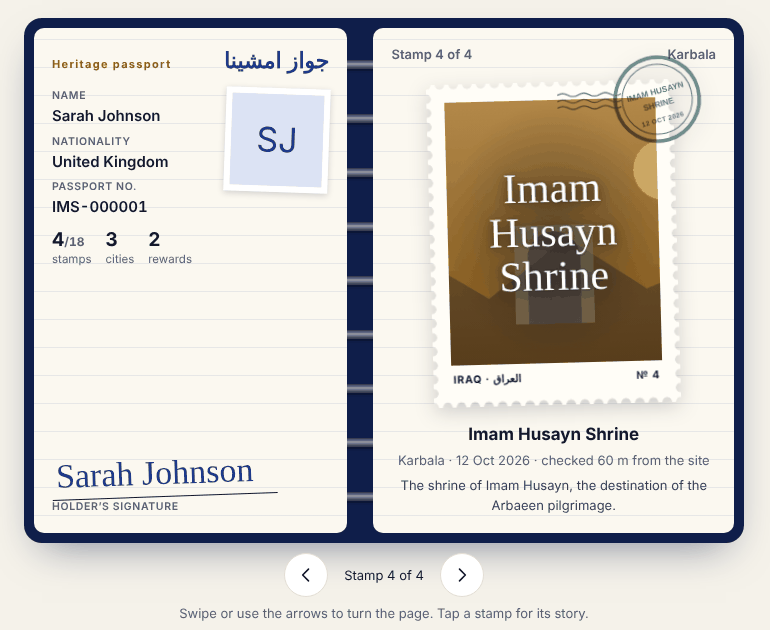
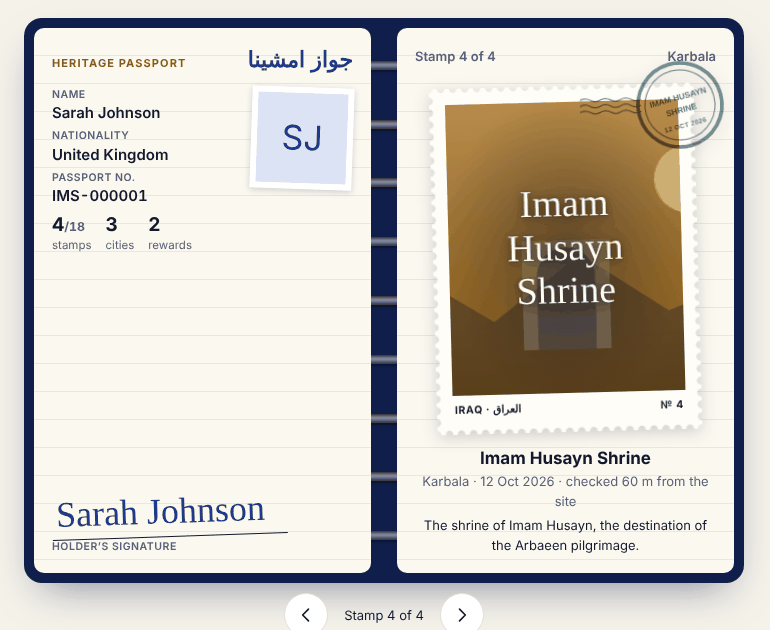
Passport spread on every screen, calligraphy lettering on stamps
- The notebook now opens side by side on phones too; sizes scale with
  the book's width (container units), with the photo above the details
  on narrow books. Pages turn sideways, mirrored in Arabic.
- Stamp names use Symphonie Calligraphy (Aref Ruqaa for Arabic), sized
  to fit, with bracketed parts dropped; the holder's signature too.
- The font file is not committed: its demo licence is personal use only
  and forbids publishing it. frontend/public/fonts/README.md explains how
  to add it locally or after buying a commercial licence; until then
  Great Vibes is used.

Claude-Session: https://claude.ai/code/session_01EBqURZZ3YTqX1zdJGkWcjZ

diff --git a/frontend/src/index.css b/frontend/src/index.css
@@ -516,146 +516,125 @@ input[type='range'] { accent-color: var(--lapis); width: 100%; }
 .story-lock { width: 40px; height: 40px; flex-shrink: 0; border-radius: 20px; background: var(--paper-2); display: flex; align-items: center; justify-content: center; color: var(--ochre); }
 
 /* ===================== Passport notebook =====================
-   A lapis cover behind cream ruled pages. The holder's page is fixed; stamp pages turn.
-   Phones: pages stacked, bound across the middle, flipping upward (rotateX about the top edge).
-   ≥760px: an open spread bound down the middle, turning sideways (rotateY), mirrored in Arabic. */
-.book-wrap { display: flex; flex-direction: column; gap: 10px; }
+   An open spread at every screen size: the holder's page on one side (fixed), stamp pages on the
+   other, turning about the spine (from the right in Arabic). Sizes follow the book's own width
+   (cqi = 1% of .book-wrap), so a 390px phone and a desktop show the same spread, just scaled. */
+@font-face {
+  /* The stamp lettering. The demo licence forbids publishing the file, so it isn't in the repo:
+     see frontend/public/fonts/README.md. Without it, Great Vibes is used. */
+  font-family: 'Symphonie';
+  src: url('/fonts/SymphonieCalligraphyDEMO-Regular.otf') format('opentype');
+  font-display: swap;
+}
+.book-wrap { display: flex; flex-direction: column; gap: 10px; container-type: inline-size; }
+@media (max-width: 480px) { .book-wrap { margin-inline: -8px; } } /* phones: give the spread a little more width */
 .book {
-  --paper: #FBF8F0; --rule: rgba(29, 58, 140, 0.09); --margin: rgba(178, 64, 50, 0.22);
-  display: grid; grid-template-rows: auto 26px auto; padding: 10px; border-radius: 18px;
-  background: var(--lapis-deep); box-shadow: 0 18px 40px -18px rgba(15, 30, 74, 0.55);
-  outline: none;
+  --paper: #FBF8F0; --rule: rgba(29, 58, 140, 0.09); --line-h: clamp(15px, 4.4cqi, 28px);
+  display: grid; grid-template-columns: minmax(0, 1fr) clamp(14px, 4.4cqi, 26px) minmax(0, 1fr);
+  padding: clamp(5px, 1.6cqi, 10px); border-radius: clamp(10px, 3cqi, 18px);
+  background: var(--lapis-deep); box-shadow: 0 18px 40px -18px rgba(15, 30, 74, 0.55); outline: none;
 }
 .book:focus-visible { box-shadow: 0 0 0 3px var(--gold), 0 18px 40px -18px rgba(15, 30, 74, 0.55); }
 .leaf-page {
-  position: relative; display: flex; flex-direction: column; gap: 12px; padding: 16px 18px 18px;
-  background-color: var(--paper);
-  background-image: linear-gradient(transparent 27px, var(--rule) 27px, var(--rule) 28px);
-  background-size: 100% 28px; background-position: 0 12px;
-  border-radius: 10px; color: var(--ink); min-width: 0;
+  position: relative; display: flex; flex-direction: column; gap: clamp(5px, 1.7cqi, 12px);
+  padding: clamp(8px, 2.6cqi, 18px); background-color: var(--paper);
+  background-image: linear-gradient(transparent calc(100% - 1px), var(--rule) calc(100% - 1px));
+  background-size: 100% var(--line-h); border-radius: clamp(6px, 1.6cqi, 10px); color: var(--ink); min-width: 0;
 }
 .leaf-page.blank { height: 100%; }
 
-/* Spiral: rings crossing the binding, like the sketch's notepad. */
-.book-spine { display: flex; justify-content: space-around; align-items: center; padding-inline: 6px; }
-.ring { width: 9px; height: 34px; border-radius: 6px; background: linear-gradient(90deg, #2A2F45, #8D93A8 45%, #2A2F45); box-shadow: 0 2px 3px rgba(0,0,0,.35); }
+/* Spiral rings down the spine */
+.book-spine { display: flex; flex-direction: column; justify-content: space-around; align-items: center; padding: 8px 0; }
+.ring { width: clamp(18px, 5.4cqi, 34px); height: clamp(5px, 1.4cqi, 9px); border-radius: 6px; background: linear-gradient(180deg, #2A2F45, #8D93A8 45%, #2A2F45); box-shadow: 0 2px 3px rgba(0, 0, 0, 0.35); }
 
 /* Holder's page */
-.identity { gap: 10px; }
-.id-head { display: flex; justify-content: space-between; align-items: baseline; gap: 10px; }
-.id-eyebrow { font-size: 11px; font-weight: 700; letter-spacing: 0.12em; color: var(--ochre); }
+.id-head { display: flex; justify-content: space-between; align-items: baseline; gap: 6px; flex-wrap: wrap; }
+.id-eyebrow { font-size: clamp(7px, 1.8cqi, 11px); font-weight: 700; letter-spacing: 0.1em; color: var(--ochre); text-transform: uppercase; }
 [dir='rtl'] .id-eyebrow { letter-spacing: 0; }
-.id-title { font-family: 'Reem Kufi', 'IBM Plex Sans Arabic', sans-serif; font-weight: 700; font-size: 22px; color: var(--lapis); }
-.id-body { display: grid; grid-template-columns: minmax(0, 1fr) 104px; gap: 14px; align-items: start; }
-.id-fields { margin: 0; display: flex; flex-direction: column; gap: 6px; }
-.id-fields dt { font-size: 10.5px; font-weight: 600; letter-spacing: 0.06em; text-transform: uppercase; color: var(--muted); }
+.id-title { font-family: 'Reem Kufi', 'IBM Plex Sans Arabic', sans-serif; font-weight: 700; font-size: clamp(12px, 3.6cqi, 22px); color: var(--lapis); line-height: 1.3; }
+.id-body { display: grid; grid-template-columns: minmax(0, 1fr) 34%; gap: clamp(6px, 2cqi, 14px); align-items: start; }
+.id-fields { margin: 0; display: flex; flex-direction: column; gap: clamp(2px, 0.9cqi, 6px); }
+.id-fields dt { font-size: clamp(6.5px, 1.7cqi, 10.5px); font-weight: 600; letter-spacing: 0.05em; text-transform: uppercase; color: var(--muted); }
 [dir='rtl'] .id-fields dt { letter-spacing: 0; }
-.id-fields dd { margin: 0; font-weight: 600; font-size: 15px; overflow-wrap: anywhere; }
-.id-stats { display: flex; gap: 14px; margin-top: 4px; }
-.id-stats span { display: flex; flex-direction: column; font-size: 11.5px; color: var(--muted); }
-.id-stats b { font-size: 19px; color: var(--ink); line-height: 1.2; }
-.id-stats small { font-size: 12px; color: var(--muted); }
-.id-photo { aspect-ratio: 1; border: 6px solid #fff; box-shadow: 0 2px 6px rgba(20, 24, 43, 0.18); background: var(--lapis-soft); display: flex; align-items: center; justify-content: center; transform: rotate(2deg); overflow: hidden; }
+.id-fields dd { margin: 0; font-weight: 600; font-size: clamp(9.5px, 2.7cqi, 15px); overflow-wrap: anywhere; line-height: 1.3; }
+.id-stats { display: flex; gap: clamp(6px, 2.2cqi, 14px); margin-top: 2px; flex-wrap: wrap; }
+.id-stats span { display: flex; flex-direction: column; font-size: clamp(7px, 1.9cqi, 11.5px); color: var(--muted); }
+.id-stats b { font-size: clamp(12px, 3.3cqi, 19px); color: var(--ink); line-height: 1.2; }
+.id-stats small { font-size: 0.65em; color: var(--muted); }
+.id-photo { aspect-ratio: 1; border: clamp(3px, 1cqi, 6px) solid #fff; box-shadow: 0 2px 6px rgba(20, 24, 43, 0.18); background: var(--lapis-soft); display: flex; align-items: center; justify-content: center; transform: rotate(2deg); overflow: hidden; }
 .id-photo img { width: 100%; height: 100%; object-fit: cover; }
-.id-photo span { font-size: 34px; color: var(--lapis); }
+.id-photo span { font-size: clamp(14px, 5cqi, 34px); color: var(--lapis); }
+.id-signature { display: flex; margin-top: auto; flex-direction: column; align-items: flex-start; gap: 2px; padding-top: 8px; }
+.id-sign { font-family: 'Symphonie', 'Great Vibes', 'Aref Ruqaa', cursive; font-size: clamp(17px, 5.4cqi, 36px); color: var(--lapis); line-height: 1.25; border-bottom: 1.5px solid var(--ink); padding: 0 clamp(8px, 3cqi, 24px) 2px 4px; transform: rotate(-2deg); max-width: 100%; overflow: hidden; white-space: nowrap; }
+.id-sign-label { font-size: clamp(6.5px, 1.7cqi, 10.5px); font-weight: 600; letter-spacing: 0.05em; text-transform: uppercase; color: var(--muted); }
+[dir='rtl'] .id-sign-label { letter-spacing: 0; }
+/* Narrow books: photo above the details, as in a printed passport. */
+@container (max-width: 560px) {
+  .id-body { grid-template-columns: 1fr; }
+  .id-photo { width: 52%; order: -1; }
+}
 
 /* Turning pages: stacked in one grid cell so the stack is as tall as the tallest page. */
-.leaf-stack { display: grid; perspective: 1800px; touch-action: pan-y; }
+.leaf-stack { display: grid; perspective: 1800px; touch-action: pan-y; min-width: 0; }
 .leaf { grid-area: 1 / 1; display: grid; min-width: 0; }
 .leaf > .leaf-page { height: 100%; }
-.leaf.turning { position: relative; z-index: 3; transform-style: preserve-3d; transform-origin: top center; animation: 720ms cubic-bezier(0.45, 0.05, 0.25, 1) both; }
-.leaf.turning.turn-next { animation-name: flip-up; }
-.leaf.turning.turn-prev { animation-name: flip-down; }
-.face { grid-area: 1 / 1; display: grid; backface-visibility: hidden; -webkit-backface-visibility: hidden; min-width: 0; }
+.leaf.turning { position: relative; z-index: 3; transform-style: preserve-3d; transform-origin: left center; animation: 720ms cubic-bezier(0.45, 0.05, 0.25, 1) both; }
+[dir='rtl'] .leaf.turning { transform-origin: right center; }
+.leaf.turning.turn-next { animation-name: turn-left; }
+.leaf.turning.turn-prev { animation-name: turn-right; }
+[dir='rtl'] .leaf.turning.turn-next { animation-name: turn-right-rtl; }
+[dir='rtl'] .leaf.turning.turn-prev { animation-name: turn-left-rtl; }
+.face { position: relative; grid-area: 1 / 1; display: grid; backface-visibility: hidden; -webkit-backface-visibility: hidden; min-width: 0; }
 .face > .leaf-page { height: 100%; }
-.face.back { transform: rotateX(180deg); }
-.face { position: relative; }
-.face.front::after, .face.back::after { content: ''; position: absolute; inset: 0; border-radius: 10px; background: linear-gradient(to bottom, rgba(15, 30, 74, 0.28), transparent 70%); opacity: 0; animation: page-shade 720ms cubic-bezier(0.45, 0.05, 0.25, 1) both; pointer-events: none; }
+.face.back { transform: rotateY(180deg); }
+.face.front::after, .face.back::after { content: ''; position: absolute; inset: 0; border-radius: inherit; background: linear-gradient(to right, rgba(15, 30, 74, 0.28), transparent 70%); opacity: 0; animation: page-shade 720ms cubic-bezier(0.45, 0.05, 0.25, 1) both; pointer-events: none; }
+[dir='rtl'] .face.front::after, [dir='rtl'] .face.back::after { background: linear-gradient(to left, rgba(15, 30, 74, 0.28), transparent 70%); }
 /* Opacity lives on the faces: on the 3D parent it would flatten the page and show its front through the back. */
-@keyframes flip-up { from { transform: rotateX(0); } to { transform: rotateX(178deg); } }
-@keyframes flip-down { from { transform: rotateX(178deg); } to { transform: rotateX(0); } }
 .leaf.turning.turn-next > .face { animation: face-out 720ms linear both; }
 .leaf.turning.turn-prev > .face { animation: face-in 720ms linear both; }
 @keyframes face-out { 0%, 78% { opacity: 1; } 100% { opacity: 0; } }
 @keyframes face-in { 0% { opacity: 0; } 22%, 100% { opacity: 1; } }
 @keyframes page-shade { 0%, 100% { opacity: 0; } 50% { opacity: 1; } }
-
-@media (min-width: 760px) {
-  .book { grid-template-rows: auto; grid-template-columns: minmax(0, 1fr) 26px minmax(0, 1.15fr); }
-  .book-spine { flex-direction: column; padding: 10px 0; }
-  .ring { width: 34px; height: 9px; background: linear-gradient(180deg, #2A2F45, #8D93A8 45%, #2A2F45); }
-  .identity { justify-content: flex-start; }
-  .leaf.turning { transform-origin: left center; }
-  [dir='rtl'] .leaf.turning { transform-origin: right center; }
-  .leaf.turning.turn-next { animation-name: turn-left; }
-  .leaf.turning.turn-prev { animation-name: turn-right; }
-  [dir='rtl'] .leaf.turning.turn-next { animation-name: turn-right-rtl; }
-  [dir='rtl'] .leaf.turning.turn-prev { animation-name: turn-left-rtl; }
-  .face.back { transform: rotateY(180deg); }
-  .face.front::after, .face.back::after { background: linear-gradient(to right, rgba(15, 30, 74, 0.28), transparent 70%); }
-  [dir='rtl'] .face.front::after, [dir='rtl'] .face.back::after { background: linear-gradient(to left, rgba(15, 30, 74, 0.28), transparent 70%); }
-}
 @keyframes turn-left { from { transform: rotateY(0); } to { transform: rotateY(-178deg); } }
 @keyframes turn-right { from { transform: rotateY(-178deg); } to { transform: rotateY(0); } }
 @keyframes turn-right-rtl { from { transform: rotateY(0); } to { transform: rotateY(178deg); } }
 @keyframes turn-left-rtl { from { transform: rotateY(178deg); } to { transform: rotateY(0); } }
-@media (prefers-reduced-motion: reduce) { .leaf.turning { animation-duration: 1ms; } }
+@media (prefers-reduced-motion: reduce) { .leaf.turning, .leaf.turning > .face { animation-duration: 1ms; } }
 
 /* Stamp page */
-.stamp-page { align-items: stretch; }
-.leaf-head { display: flex; justify-content: space-between; color: var(--muted); font-weight: 600; }
-.postage-wrap { position: relative; display: block; align-self: center; width: min(76%, 290px); margin: 6px 0 4px; padding: 0; border: 0; background: none; cursor: pointer; filter: drop-shadow(0 6px 10px rgba(20, 24, 43, 0.2)); transform: rotate(-1.5deg); }
+.leaf-head { display: flex; justify-content: space-between; gap: 6px; color: var(--muted); font-weight: 600; font-size: clamp(7.5px, 2cqi, 13px); }
+.postage-wrap { position: relative; display: block; align-self: center; width: min(88%, 300px); margin: clamp(4px, 1.4cqi, 8px) 0 2px; padding: 0; border: 0; background: none; cursor: pointer; filter: drop-shadow(0 4px 8px rgba(20, 24, 43, 0.2)); transform: rotate(-1.5deg); }
 .postage-wrap:focus-visible { outline: 3px solid var(--lapis); outline-offset: 6px; border-radius: 4px; }
 /* Perforated edge: semicircle bites along all four sides, solid inside (two mask layers, unioned). */
 .postage {
-  display: block; padding: 8px; background: #FFFDF7;
-  -webkit-mask: linear-gradient(#000 0 0) content-box, radial-gradient(circle, #0000 4.4px, #000 5px) -7px -7px / 14px 14px round;
-  mask: linear-gradient(#000 0 0) content-box, radial-gradient(circle, #0000 4.4px, #000 5px) -7px -7px / 14px 14px round;
+  display: block; padding: 6px; background: #FFFDF7;
+  -webkit-mask: linear-gradient(#000 0 0) content-box, radial-gradient(circle, #0000 3.6px, #000 4.2px) -6px -6px / 12px 12px round;
+  mask: linear-gradient(#000 0 0) content-box, radial-gradient(circle, #0000 3.6px, #000 4.2px) -6px -6px / 12px 12px round;
 }
-.postage-photo { position: relative; display: flex; align-items: center; justify-content: center; aspect-ratio: 4 / 5; overflow: hidden; background: var(--ink); color: rgba(255, 255, 255, 0.5); margin: 10px 10px 0; }
+.postage-photo { position: relative; display: flex; align-items: center; justify-content: center; aspect-ratio: 4 / 5; overflow: hidden; background: var(--ink); color: rgba(255, 255, 255, 0.5); margin: clamp(4px, 1.4cqi, 10px) clamp(4px, 1.4cqi, 10px) 0; }
 .postage-photo img { position: absolute; inset: 0; width: 100%; height: 100%; object-fit: cover; }
-.postage-photo::after { content: ''; position: absolute; inset: 0; background: radial-gradient(ellipse at center, rgba(10, 14, 30, 0.45), rgba(10, 14, 30, 0.1) 70%); }
+.postage-photo::after { content: ''; position: absolute; inset: 0; background: radial-gradient(ellipse at center, rgba(10, 14, 30, 0.45), rgba(10, 14, 30, 0.08) 75%); }
+/* The place name across the traveller's own photo, in calligraphy. */
 .postage-name {
-  position: absolute; inset: 0; z-index: 1; display: flex; align-items: center; justify-content: center; padding: 0 12px; text-align: center;
-  font-family: 'Great Vibes', 'Aref Ruqaa', cursive; font-size: clamp(30px, 9vw, 42px); line-height: 1.05; color: #fff;
-  text-shadow: 0 2px 12px rgba(0, 0, 0, 0.6), 0 0 2px rgba(0, 0, 0, 0.4);
+  position: absolute; inset: 0; z-index: 1; display: flex; align-items: center; justify-content: center; padding: 0 6%; text-align: center;
+  font-family: 'Symphonie', 'Great Vibes', cursive; font-weight: 400; font-size: clamp(20px, 7cqi, 46px); line-height: 1.15; color: #FFFDF2;
+  text-shadow: 0 2px 10px rgba(0, 0, 0, 0.55), 0 0 2px rgba(0, 0, 0, 0.35);
 }
-.postage-name:lang(ar) { font-family: 'Aref Ruqaa', 'Reem Kufi', serif; font-weight: 700; font-size: clamp(28px, 8vw, 38px); line-height: 1.4; }
-.postage-foot { display: flex; justify-content: space-between; padding: 7px 12px 10px; font-size: 10.5px; font-weight: 700; letter-spacing: 0.08em; color: var(--ink); }
-.postmark { position: absolute; top: -26px; inset-inline-end: -30px; display: flex; align-items: center; mix-blend-mode: multiply; opacity: 0.85; pointer-events: none; }
-.cancel-lines { width: 64px; height: 22px; margin-inline-end: -10px; opacity: 0.8; }
+.postage-name.l { font-size: clamp(17px, 5.9cqi, 38px); }
+.postage-name.xl { font-size: clamp(14px, 4.7cqi, 31px); }
+.postage-name:lang(ar) { font-family: 'Aref Ruqaa', 'Reem Kufi', serif; font-weight: 700; font-size: clamp(16px, 5.2cqi, 38px); line-height: 1.45; }
+.postage-foot { display: flex; justify-content: space-between; gap: 4px; padding: clamp(4px, 1.1cqi, 7px) clamp(5px, 1.8cqi, 12px) clamp(5px, 1.5cqi, 10px); font-size: clamp(5.5px, 1.5cqi, 10.5px); font-weight: 700; letter-spacing: 0.06em; color: var(--ink); white-space: nowrap; }
+.postmark { position: absolute; top: calc(-1 * clamp(10px, 3.4cqi, 26px)); inset-inline-end: calc(-1 * clamp(14px, 4.4cqi, 32px)); display: flex; align-items: center; mix-blend-mode: multiply; opacity: 0.85; pointer-events: none; }
+.postmark svg:last-child { width: clamp(46px, 13cqi, 92px); height: clamp(46px, 13cqi, 92px); }
+.cancel-lines { width: clamp(28px, 8.5cqi, 64px); height: auto; aspect-ratio: 3; margin-inline-end: -8px; opacity: 0.8; }
 [dir='rtl'] .cancel-lines { transform: scaleX(-1); }
-.stamp-info { display: flex; flex-direction: column; gap: 3px; text-align: center; align-items: center; }
-.stamp-info-name { font-size: 17px; }
-.stamp-info p { margin: 2px 0 0; color: var(--ink-2, var(--ink)); max-width: 40ch; }
+.stamp-info { display: flex; flex-direction: column; gap: 2px; text-align: center; align-items: center; }
+.stamp-info-name { font-size: clamp(10.5px, 2.9cqi, 17px); line-height: 1.3; }
+.stamp-info .muted { font-size: clamp(8px, 2.1cqi, 13px); }
+.stamp-info p { margin: 2px 0 0; font-size: clamp(8px, 2.1cqi, 13px); max-width: 40ch; }
+@container (max-width: 560px) { .stamp-info p { display: none; } }
 .next-page { justify-content: center; }
-.postage-empty { align-self: center; width: min(70%, 260px); aspect-ratio: 4 / 5; border: 2.5px dashed var(--line-3); border-radius: 6px; display: flex; flex-direction: column; align-items: center; justify-content: center; gap: 12px; padding: 18px; text-align: center; color: var(--muted); transform: rotate(-1.5deg); }
+.postage-empty { align-self: center; width: min(82%, 260px); aspect-ratio: 4 / 5; border: 2px dashed var(--line-3); border-radius: 6px; display: flex; flex-direction: column; align-items: center; justify-content: center; gap: 8px; padding: 10%; text-align: center; color: var(--muted); font-size: clamp(8.5px, 2.3cqi, 14px); transform: rotate(-1.5deg); }
 .book-controls { display: flex; align-items: center; justify-content: center; gap: 16px; }
 .book-controls .icon-btn:disabled { opacity: 0.35; }
 .book-hint { margin: -4px 0 0; }
-
-/* Holder's signature: fills the left page on wide screens; hidden on phones to keep the book short. */
-.id-signature { display: none; margin-top: auto; flex-direction: column; align-items: flex-start; gap: 2px; padding-top: 18px; }
-.id-sign { font-family: 'Great Vibes', 'Aref Ruqaa', cursive; font-size: 34px; color: var(--lapis); line-height: 1.2; border-bottom: 1.5px solid var(--ink); padding: 0 24px 2px 4px; transform: rotate(-2deg); }
-.id-sign-label { font-size: 10.5px; font-weight: 600; letter-spacing: 0.06em; text-transform: uppercase; color: var(--muted); }
-[dir='rtl'] .id-sign-label { letter-spacing: 0; }
-@media (min-width: 760px) { .id-signature { display: flex; } }
-
-/* Phones: keep the whole book on one screen. */
-@media (max-width: 759px) {
-  .book { padding: 8px; grid-template-rows: auto 22px auto; }
-  .identity { padding: 12px 14px 14px; gap: 6px; }
-  .id-body { grid-template-columns: minmax(0, 1fr) 84px; gap: 10px; }
-  .id-title { font-size: 19px; }
-  .id-fields { gap: 3px; }
-  .id-fields dd { font-size: 14px; }
-  .id-stats b { font-size: 17px; }
-  .id-photo { border-width: 5px; }
-  .id-photo span { font-size: 28px; }
-  .ring { height: 28px; }
-  .stamp-page { padding: 12px 14px 14px; gap: 8px; }
-  .postage-wrap { width: min(62%, 240px); margin: 10px 0 2px; }
-  .postmark { top: -20px; inset-inline-end: -40px; }
-  .postmark svg:last-child { width: 78px; height: 78px; }
-  .stamp-info p { display: none; }
-}

diff --git a/frontend/src/components/PassportBook.jsx b/frontend/src/components/PassportBook.jsx
@@ -146,11 +146,15 @@ function IdentityPage({ user, count, total, cities, rewards }) {
   )
 }
 
-/** One stamp: the traveller's photo framed as a postage stamp, the name in script, a postmark, then the details. */
+// Calligraphy needs room: shrink long names so they stay inside the photo.
+const nameSize = (n) => (n.length > 22 ? 'xl' : n.length > 13 ? 'l' : '')
+
+/** One stamp: the photo the traveller took on site to verify it (never a profile photo), framed as a postage stamp, the name in script, a postmark, then the details. */
 function StampPage({ page, count, onOpen }) {
   const { t, loc, gov, isRtl } = useI18n()
   const { stamp, place, n } = page
   const name = place ? loc(place, 'name') : loc(stamp, 'placeName')
+  const stampName = name.replace(/\s*\(.*?\)/g, '') // "Ishtar Gate (Reconstruction)" → "Ishtar Gate" on the stamp
   const city = gov(place?.governorateName || stamp.governorateName)
   const ink = govInk(place?.governorateName || stamp.governorateName, place?.governorateId)
   const src = imageUrl(stamp.photoUrl)
@@ -165,7 +169,7 @@ function StampPage({ page, count, onOpen }) {
         <span className="postage">
           <span className="postage-photo" style={{ '--ink': ink }}>
             {photo ? <img src={photo} alt="" draggable="false" onError={() => setFailed(true)} /> : <Icon name="image" size={40} />}
-            <span className="postage-name" lang={isRtl ? 'ar' : 'en'}>{name}</span>
+            <span className={`postage-name ${nameSize(stampName)}`} lang={isRtl ? 'ar' : 'en'}>{stampName}</span>
           </span>
           <span className="postage-foot"><span>IRAQ · العراق</span><span className="num">№ {n}</span></span>
         </span>

diff --git a/README.md b/README.md
@@ -36,7 +36,7 @@ Most travel apps help you plan a trip. Imshina rewards you for actually going. E
 
 **Travellers**
 - **Discover** 18 heritage sites across 4 cities, with history timelines, visiting tips, maps and a "find nearest" button.
-- **Collect stamps** in a passport that works like a notebook: your details stay on one page, and each stamp gets its own page that turns like paper. A stamp is your own photo framed as a postage stamp, with the place name in script and a postmark in the city's ink. Every photo is taken on site and checked against your distance from the place.
+- **Collect stamps** in a passport that works like a notebook: your details stay on one page, and each stamp gets its own page that turns like paper. A stamp is the photo you took on site to verify it, framed as a postage stamp, with the place name in calligraphy and a postmark in the city's ink. Every photo is taken on site and checked against your distance from the place.
 - **Unlock a story** at each site: a surprising fact and one thing to look for while you're standing there. The server only sends it once you hold that place's stamp.
 - **Share a stamp** as a story-sized image: the stamp, the place and "5 of 18", ready for Instagram or WhatsApp.
 - **Follow trails** such as *Old Baghdad* or *Heart of Babylon*, reach milestones, and earn a shareable certificate for stamping all 18 sites.
@@ -72,7 +72,7 @@ Most travel apps help you plan a trip. Imshina rewards you for actually going. E
 
 The passport notebook · booking a guide for two days · a guide's booking requests · the passport in Arabic
 
-On wider screens the passport opens as a spread: the holder's page stays put and stamp pages turn.
+The passport opens as a spread on every screen: the holder's page stays put and stamp pages turn.
 
 ![The passport as an open notebook on a wide screen](docs/screenshots/passport-desktop.png)
 
@@ -239,6 +239,7 @@ docs/
 - **Phone first.** People use it standing at a site with a phone in one hand. A bottom tab bar on phones becomes a side rail on wide screens (960 px and up). Tabs change with the account type.
 - **Colours** come from the Ishtar Gate's glazed bricks: lapis blue and gold on a warm paper background. Each city has its own stamp ink.
 - **Type:** Reem Kufi for headings and IBM Plex Sans Arabic for text. Both cover Arabic and Latin script.
+- **Stamp lettering:** Symphonie Calligraphy for Latin names and Aref Ruqaa for Arabic. Symphonie's demo licence doesn't allow publishing the file, so it isn't in the repo; see [frontend/public/fonts/README.md](frontend/public/fonts/README.md). Without it, the app falls back to Great Vibes.
 - **Arabic** is a full translation, not an afterthought. The layout mirrors properly, and English names inside Arabic sentences are isolated so the word order stays correct.
 - **Fast going back:** a small stale-while-revalidate cache shows the last data instantly and refreshes quietly.
 - **Every state is designed:** loading skeletons, empty lists, no connection, location off, too far from the site and already stamped all have their own screens.

diff --git a/frontend/public/fonts/README.md b/frontend/public/fonts/README.md
@@ -1,0 +1,12 @@
+# Stamp lettering font
+
+The place name written across each passport stamp uses **Symphonie Calligraphy** by Krismagraph.
+
+The font file is **not in this repository**, on purpose. The free demo is licensed for personal use only and may not be published or redistributed, and this repo is public.
+
+## Using it
+
+- **Locally (personal use):** put `SymphonieCalligraphyDEMO-Regular.otf` in this folder. The app picks it up from `/fonts/SymphonieCalligraphyDEMO-Regular.otf`. The `.gitignore` keeps it out of commits.
+- **For a public or commercial launch:** buy a commercial licence from https://circlefont.com/product/symphonie-modern-calligraphy/, put the licensed file here, and update the `src` in the `@font-face` rule at the top of the notebook styles in `src/index.css` if the file name differs. Then decide whether the licence lets you commit it.
+
+Without the file, stamps fall back to **Great Vibes** (Google Fonts, open licence). Arabic names always use **Aref Ruqaa**, because Symphonie has no Arabic letters.
